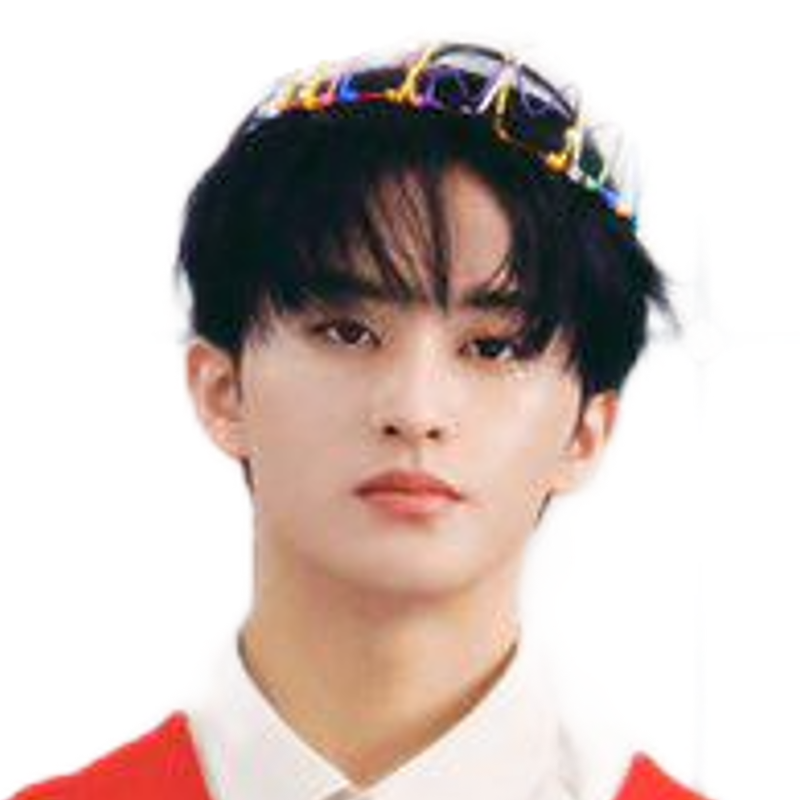
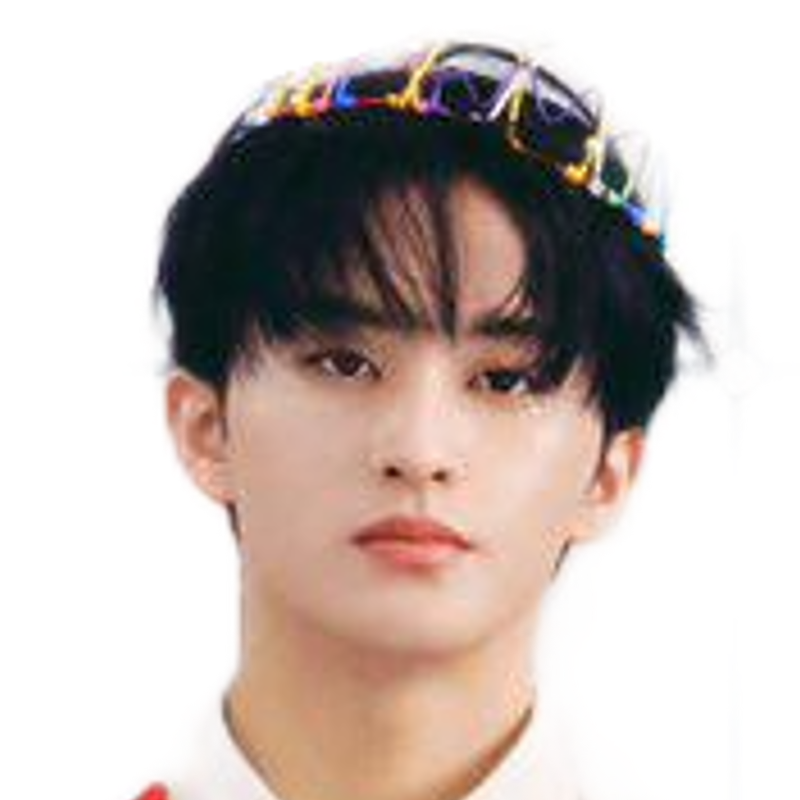
Update Moonlight photos

diff --git a/js/ranking.js b/js/ranking.js
@@ -4,7 +4,7 @@
 /* ========================================= */
 
 /* Bump when the avatar images change, to bust the browser/Pages cache. */
-const PHOTO_VER = 100;
+const PHOTO_VER = 101;
 window.PHOTO_VER = PHOTO_VER;
 
 const Ranking = {
